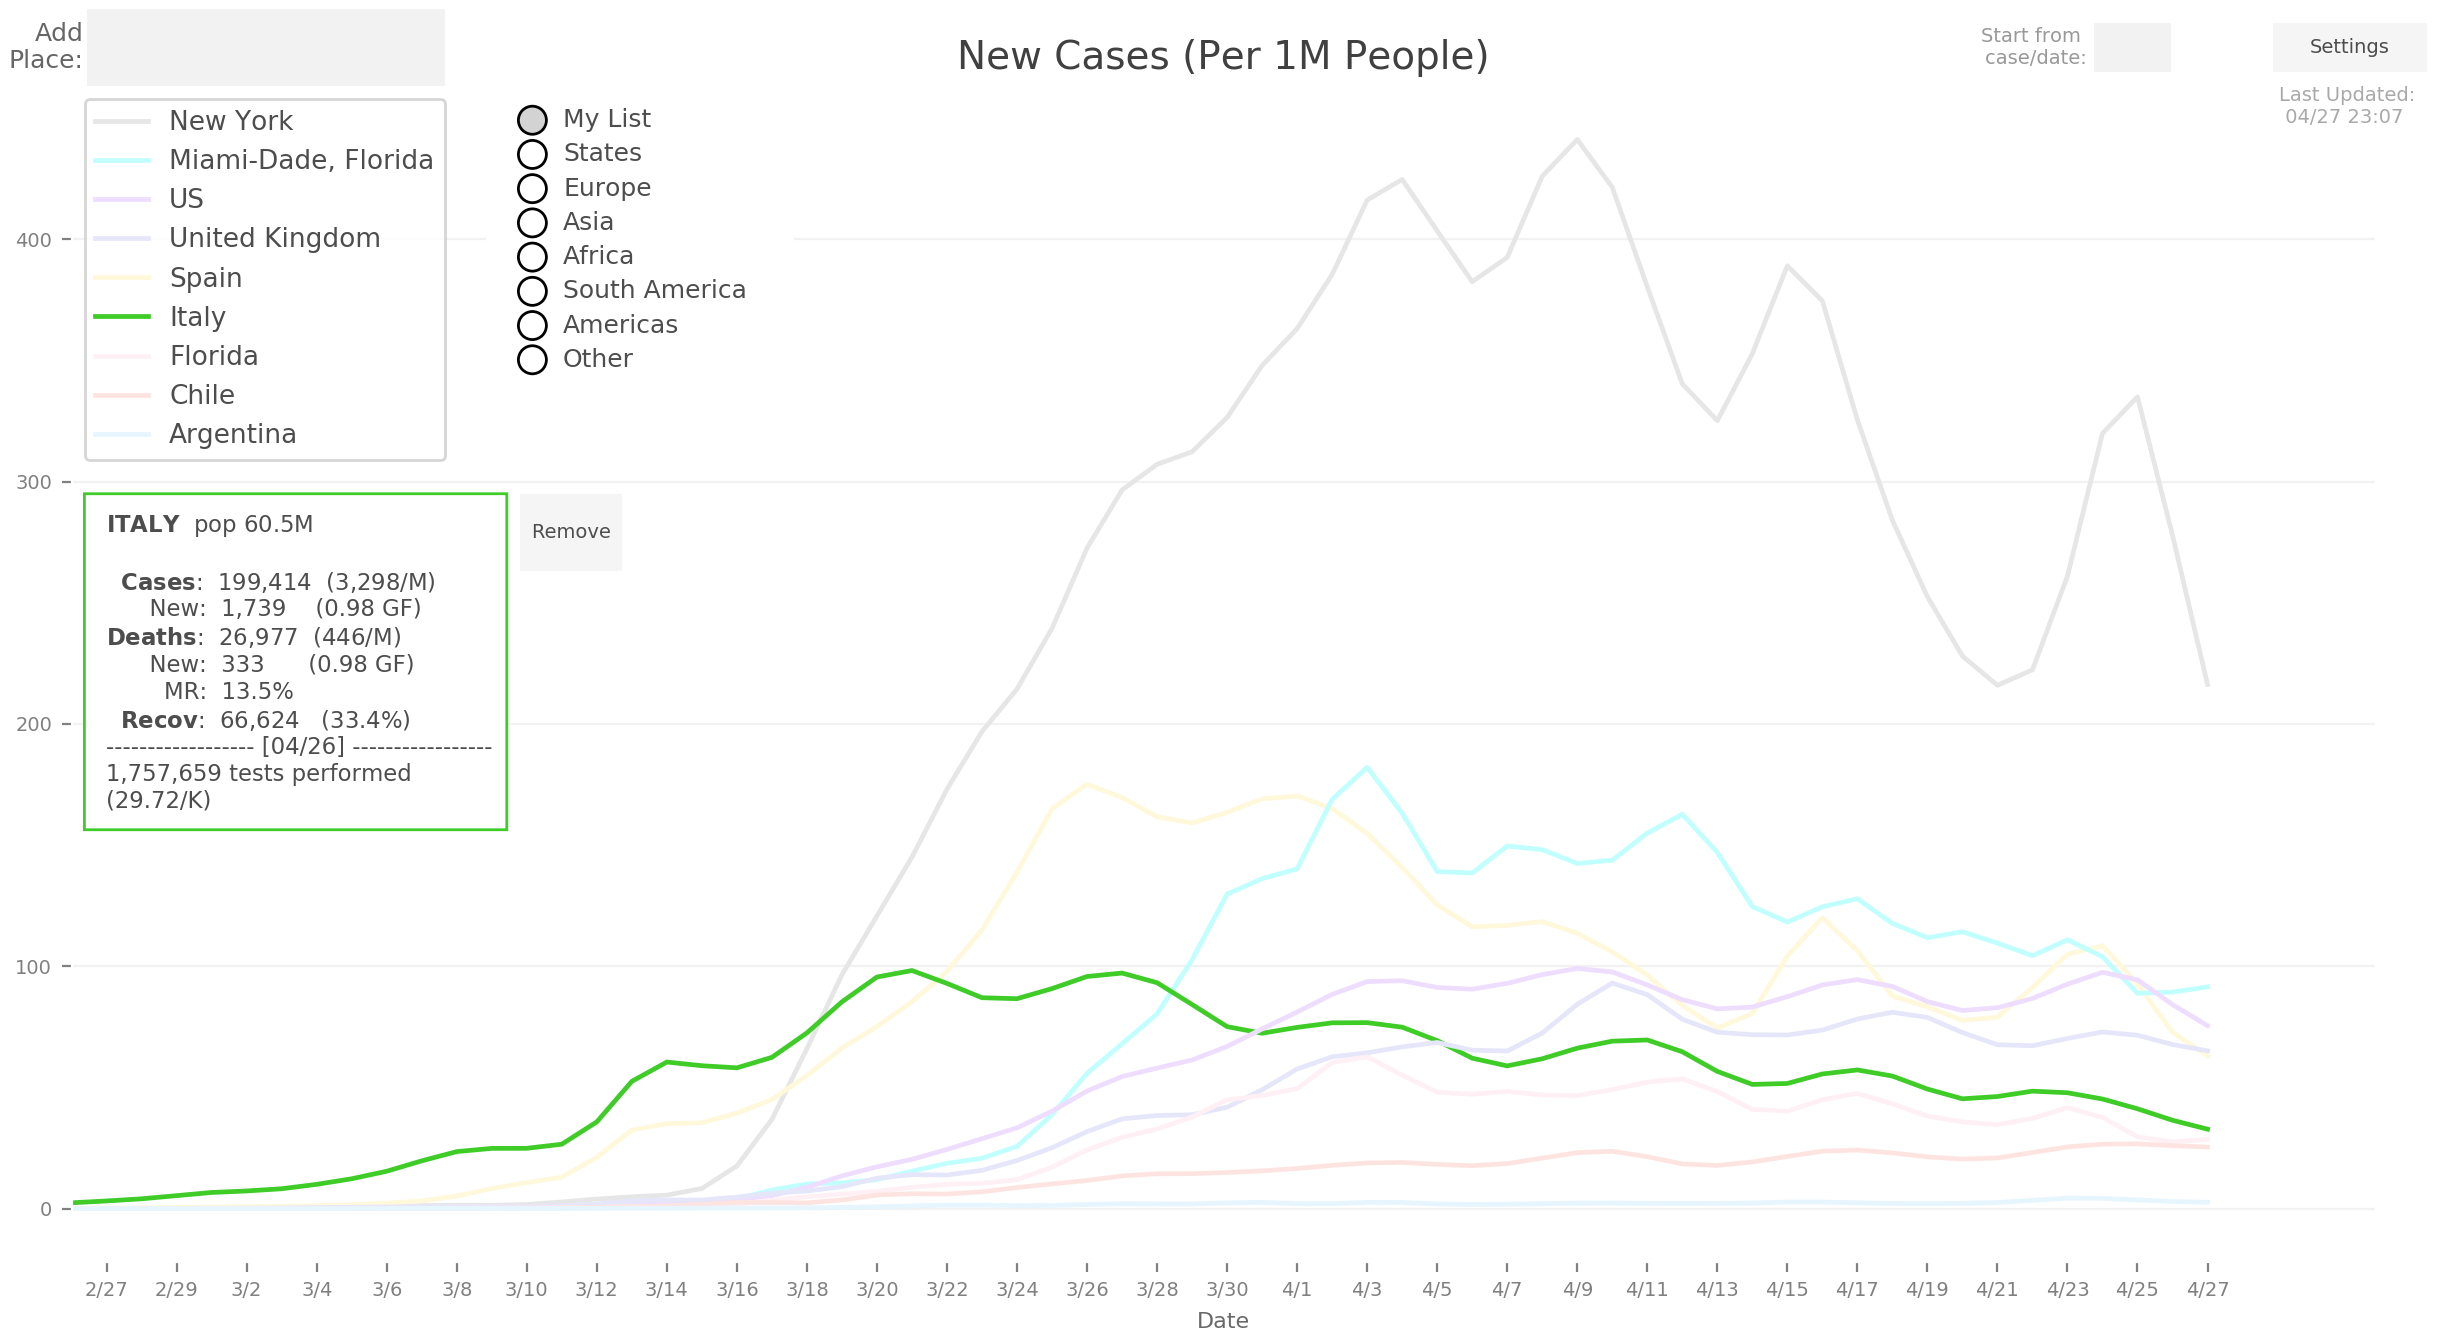
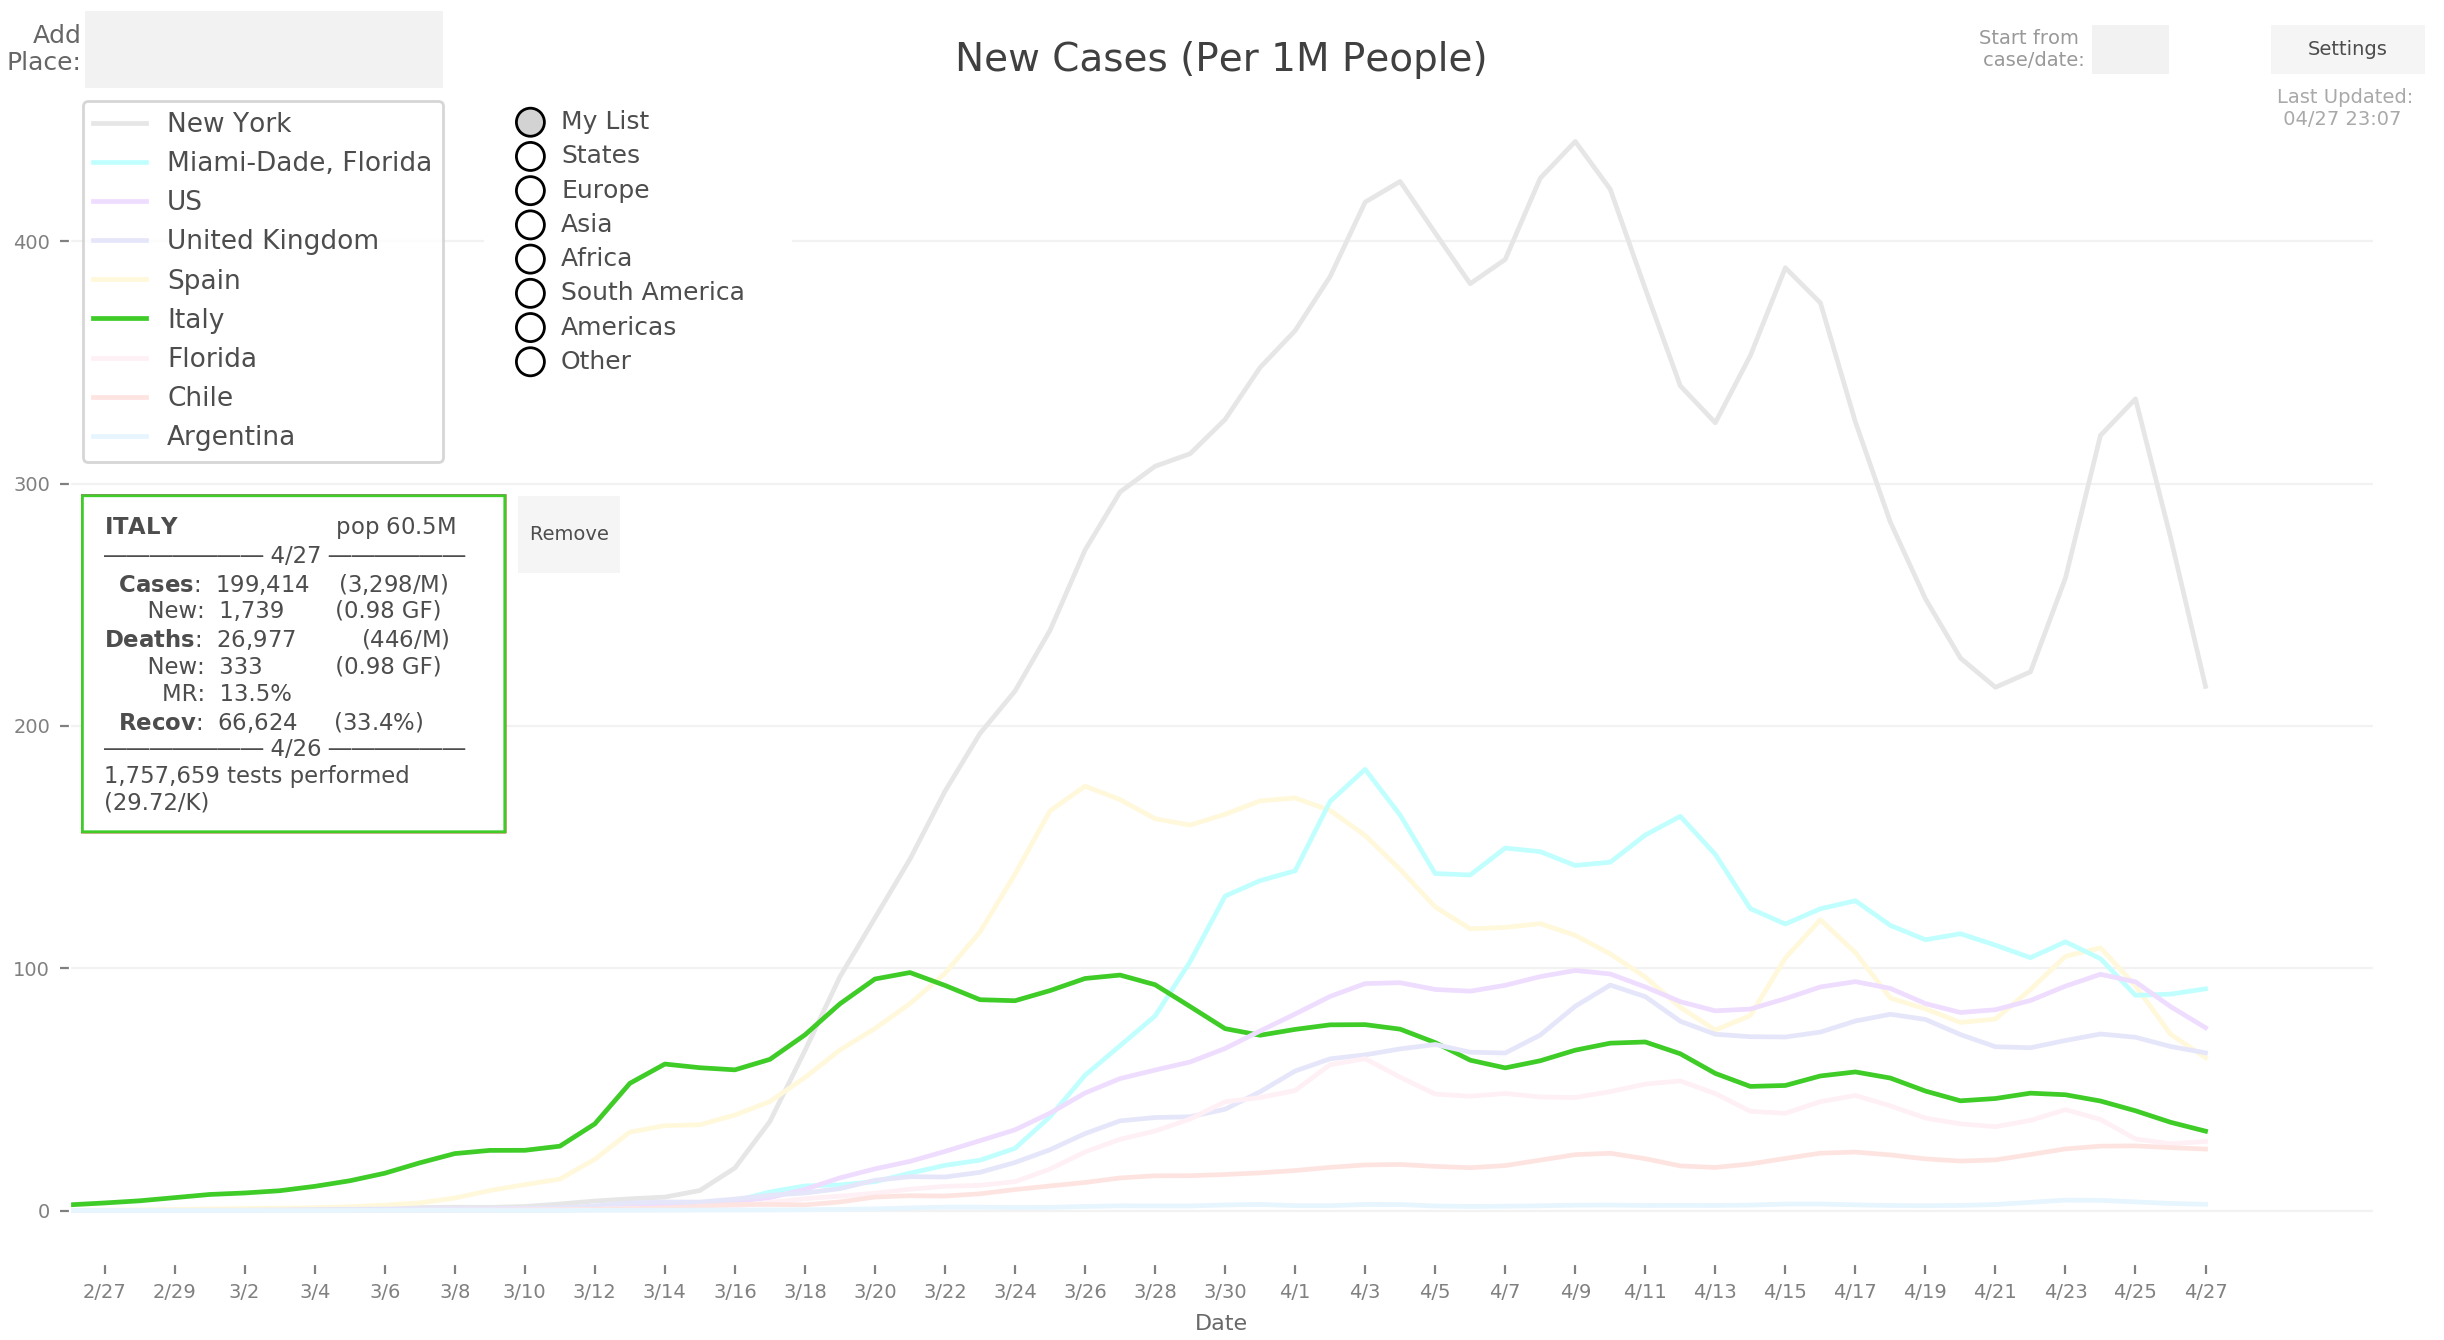
UI

diff --git a/Graph.py b/Graph.py
@@ -293,12 +293,12 @@ class Graph():
 
         name = c.name.split(",")[0] if "," in c.name else c.name.replace(" ","\ ")
         place = r"$\bf{}$".format(name.upper())
-        dateBef = "{date}".format(date="[" + c.dates[self.dayBefore] + "]" if self.dayBefore < -1 else "")
+        dateBef = "{date}".format(date=c.dates[self.dayBefore])
 
-        if c.pop < 0.1: pop = "{:,.1f}K".format(round(c.pop*1000,2))
-        if c.pop >= 0.1: pop = "{:,.1f}M".format(round(c.pop,2))
-        txt = "{}  pop {}\n".format(place,pop)
-        if dateBef != "": txt += "------------------ {} -----------------".format(dateBef)
+        if c.pop < 0.1: pop = "pop {:,.1f}K".format(round(c.pop*1000,2))
+        if c.pop >= 0.1: pop = "pop {:,.1f}M".format(round(c.pop,2))
+        txt = "{} {}\n".format(place,pop.rjust(50-2*(len(place)), " "))
+        if dateBef != "": txt += "――――――― {} ――――――".format(dateBef)
         # if c.pop < 0.1: txt +='\n' + "{}  {:,.1f}K".format("Population:", round(c.pop*1000,2))
         # if c.pop >= 0.1: txt +='\n' + "{}  {:,.1f}M".format("Population:", round(c.pop,2)) #{:15s}
 
@@ -315,11 +315,11 @@ class Graph():
         deathsGF = "({:3.2f} GF)".format(self.averageGrowthFactor(c, "deaths"))
 
         MR =" {:,.1f}%".format(100*c.alldeaths[self.dayBefore]/c.cases[self.dayBefore])
-        txt +='\n  ' + r"$\bf{}$:  {:8.8} {:10.10}".format("Cases", cases,casesPerM)
-        txt +='\n' + "{}:  {:8.8} {:10.10}".format("      New", newcases,casesGF)
-        txt +='\n' + r"$\bf{}$:  {:8.8}{:9.9}".format("Deaths", deaths, deathsPerM)
-        txt +='\n' + "{}:  {:8.8} {:10.10}".format("      New", newdeaths,deathsGF)
-        txt +='\n' + "{}: {:6.6}".format("        MR", MR)
+        txt +='\n  ' + r"$\bf{}$:  {:<10}{:>10}".format("Cases", cases,casesPerM)
+        txt +='\n' + "{}:  {:<11}{:>10}".format("      New", newcases,casesGF)
+        txt +='\n' + r"$\bf{}$:  {:<12}{:>10}".format("Deaths", deaths, deathsPerM)
+        txt +='\n' + "{}:  {:<12}{:>10}".format("      New", newdeaths,deathsGF)
+        txt +='\n' + "{}: {:<10}".format("        MR", MR)
 
         if c.allrecovered !=  ["?"]:
             if len(c.allrecovered) > 1:
@@ -332,17 +332,18 @@ class Graph():
                 recoveredRate = "({:,.1f}%)".format(100*c.allrecovered[-1]/(c.cases[-1]))
                 lastDate = "[" + c.dates[-1] + "] "
                 leng = 13
-            txt +='\n  ' + r"$\bf{}$:  {:8.8} {:8.8} {:7.7}".format("  Recov", allRec,recoveredRate,lastDate)
+            txt +='\n  ' + r"$\bf{}$:  {:<10}{:^9}{:>7}".format("  Recov", allRec,recoveredRate,lastDate)
         else:
             txt +='\n  ' + r"$\bf{}$:  {}".format("  Recov", "?")
 
         if c.testing == "" or (c.testing != "" and len(c.testing.split("|")[1]) < 33): txt +="\n"
         if c.testing != "":
             dt = c.testing.split("|")[0]
-            txt += "\n------------------ [" + dt + "] -----------------\n"
+            if dt[0] == "0": dt = dt[1:]
+            txt += "\n――――――― " + dt + " ――――――\n"
             txt += textwrap.fill(c.testing.split("|")[1],width=32)
         else:
-            txt += "\n------------- No Testing Info ------------\n"
+            txt += "\n―――― No Testing Info ――――\n"
 
 
         # height = 0.15
